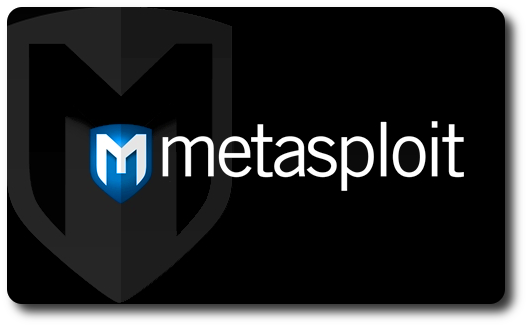
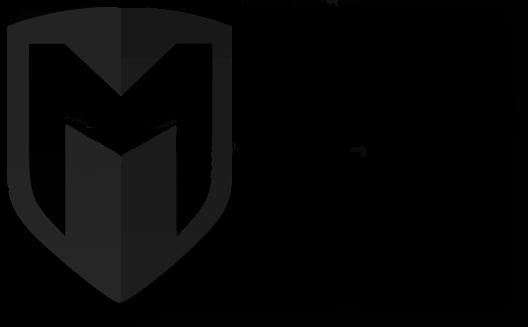
...

Changed region(s): [[0.0, 0.0, 1.0, 1.0], [0.1212, 0.367, 0.8788, 0.6422]]

diff --git a/Metasploit.html b/Metasploit.html
@@ -26,8 +26,8 @@ class: center, middle
 ---
 
 layout: true
-background-position: right
 background-color: black
+background-position: middle
 background-image: url(pictures/Metasploit-Framework.png)
 
 ---
@@ -374,6 +374,7 @@ background-image:
 - zusätzlich sollte das System aktualisiert werden können, damit upgrades zukünftig möglich sind
 - System sollte mit realen Angriffsskripten evaluiert werden
 - Defensescript nach dem analysieren des Angriffsskripts (besonders bei Zero-Day-Exploits)
+- IDS/IPS
 </font>
 
 ---
